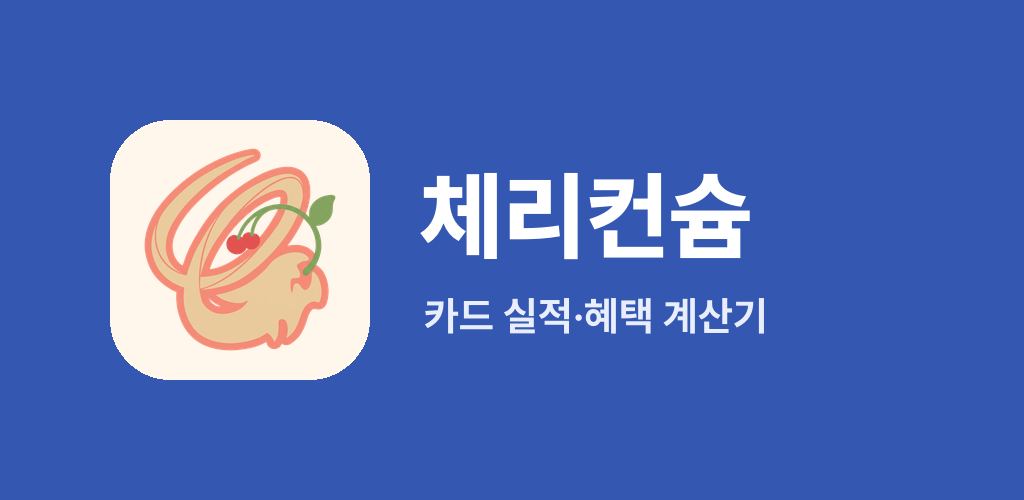
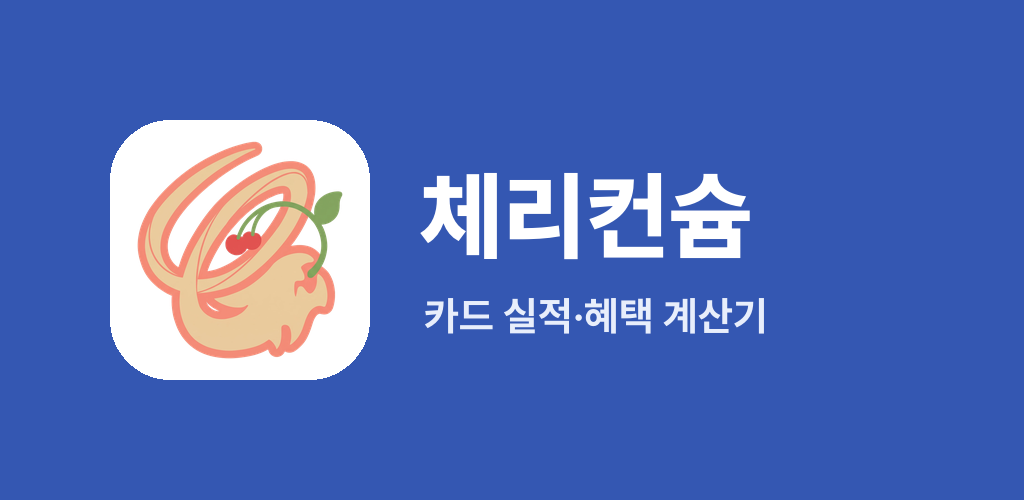
feat: 앱 아이콘 바탕을 흰색으로 바꾸고 그림을 키우기
작업 012 설계 3.2. 2026-10-05 사용자가 실제 폰에서 크림 바탕이 누렇게 보이고 아이콘이 작아 보인다고 했다. 홈 화면 적응형 아이콘의 앞 그림을 108dp 칸의 41%에서 55%로 키웠다. 안전 영역에 드는 최대가 57%다

Changed region(s): [[0.125, 0.27, 0.3438, 0.72]]

diff --git a/backend/tools/store_art.py b/backend/tools/store_art.py
@@ -16,9 +16,8 @@ STORE = ROOT / "docs" / "store"
 RES = ROOT / "app" / "android" / "app" / "src" / "main" / "res"
 SHOTS = ROOT / "app" / "build" / "screens" / "store"
 FONTS = ROOT / "app" / "assets" / "fonts"
-CREAM = (255, 246, 236)  # 아이콘 바탕. 2026-10-05 사용자가 골랐다
 BLUE = (52, 87, 178)  # 앱 C.blue
-WHITE = (255, 255, 255)
+WHITE = (255, 255, 255)  # 아이콘 바탕. 2026-10-05 사용자가 크림이 누렇게 보인다고 흰색으로 바꿨다
 # 찍은 화면, 문구 표의 화면 이름, 내보낼 이름
 SCREENS = [
     ("1-home", "홈", "1-home"),
@@ -56,25 +55,26 @@ def rounded(im: Image.Image, radius: int) -> Image.Image:
 
 def store_icon() -> None:
     # 모서리는 Play가 30%로 깎는다. 원본은 꽉 찬 정사각형이다
-    centered(512, 0.78, CREAM + (255,)).save(STORE / "icon-512.png")
+    centered(512, 0.84, WHITE + (255,)).save(STORE / "icon-512.png")
 
 
 def launcher_icons() -> None:
-    # Android 8 이상은 적응형 아이콘이다. 108dp 칸 가운데 지름 66dp 안전 영역에 들게 그림을 41%로 둔다.
+    # Android 8 이상은 적응형 아이콘이다. 108dp 칸 가운데 지름 66dp 안전 영역에 들게 그림을 55%로 둔다. 그림의 불투명한
+    # 점이 가운데서 긴 변의 0.536배 안에 있어 57%까지 안전 영역에 든다. 2026-10-05 사용자가 41%는 작아 보인다고 했다.
     # 바탕색은 values/colors.xml의 ic_launcher_background다. 그 아래 판은 둥근 사각형 PNG를 쓴다
     for name, dp in [("mdpi", 1), ("hdpi", 1.5), ("xhdpi", 2), ("xxhdpi", 3), ("xxxhdpi", 4)]:
         folder = RES / f"mipmap-{name}"
-        centered(round(108 * dp), 0.41, (0, 0, 0, 0)).save(folder / "ic_launcher_foreground.png")
+        centered(round(108 * dp), 0.55, (0, 0, 0, 0)).save(folder / "ic_launcher_foreground.png")
         size, pad = round(48 * dp), round(2 * dp)
         legacy = Image.new("RGBA", (size, size), (0, 0, 0, 0))
         inner = size - 2 * pad
-        legacy.alpha_composite(rounded(centered(inner, 0.78, CREAM + (255,)), round(inner * 0.2)), (pad, pad))
+        legacy.alpha_composite(rounded(centered(inner, 0.84, WHITE + (255,)), round(inner * 0.2)), (pad, pad))
         legacy.save(folder / "ic_launcher.png")
 
 
 def feature_graphic() -> None:
     im = Image.new("RGB", (1024, 500), BLUE)
-    tile = rounded(centered(260, 0.78, CREAM + (255,)), 60)
+    tile = rounded(centered(260, 0.84, WHITE + (255,)), 60)
     im.paste(tile, (110, 120), tile)
     draw = ImageDraw.Draw(im)
     draw.text((420, 250), "체리컨슘", font=font("ExtraBold", 96), fill=WHITE, anchor="ls")

diff --git a/docs/work/012-android-release/design.md b/docs/work/012-android-release/design.md
@@ -157,8 +157,8 @@ Play에 새로 내는 앱은 APK가 아니라 앱 묶음 파일 `.aab`로 올린
 
 ### 3.2 그림
 
-- 아이콘: `design/icon.png`를 크림색 `#FFF6EC` 바탕의 512×512 정사각형에 둔다. 모서리는 Play가 둥글게 깎으므로 깎지 않는다. 그림은 바탕이 투명인데 Play는 투명 바탕을 권하지 않는다
-- 폰 홈 화면 아이콘: 지금 출시 앱은 Flutter 기본 로고다. 2026-10-05 단계 1에서 찾았다. 같은 그림과 크림색 바탕으로 바꾼다. Android 8 이상은 바탕색과 앞 그림을 나눈 적응형 아이콘이고 그 아래는 둥근 사각형 PNG다. 바탕색은 2026-10-05 사용자가 흰색, 크림, 연분홍, 앱 파란색 가운데 크림을 골랐다
+- 아이콘: `design/icon.png`를 흰색 바탕의 512×512 정사각형에 둔다. 모서리는 Play가 둥글게 깎으므로 깎지 않는다. 그림은 바탕이 투명인데 Play는 투명 바탕을 권하지 않는다
+- 폰 홈 화면 아이콘: 지금 출시 앱은 Flutter 기본 로고다. 2026-10-05 단계 1에서 찾았다. 같은 그림과 크림색 바탕으로 바꾼다. Android 8 이상은 바탕색과 앞 그림을 나눈 적응형 아이콘이고 그 아래는 둥근 사각형 PNG다. 바탕색은 2026-10-05 사용자가 흰색, 크림, 연분홍, 앱 파란색 가운데 크림을 골랐다가, 같은 날 실제 폰에서 크림이 누렇게 보인다고 흰색으로 바꿨다. 앞 그림이 작아 보인다고 해 108dp 칸의 41%에서 55%로 키웠다. 그림의 불투명한 점이 지름 66dp 안전 영역에 드는 최대가 57%다
 - 기능 그래픽: 앱의 파란색 바탕에 아이콘, "체리컨슘", "카드 실적·혜택 계산기"를 둔다. 짧은 설명은 1024×500에 한 줄로 들어가지 않아 앱 이름 뒷부분을 쓴다
 - 스크린샷: 에뮬레이터 화면을 1080×1920으로 바꿔 다시 찍는다. 지금 사진 1080×2400은 긴 변이 짧은 변의 두 배를 넘는다. 홈, 카드 상세, 추천, 가게별 순위, 결제 기록, 기록 6장이다. 결제 내역은 지금처럼 지어낸 것이다
 - 스크린샷 모양: 파란 바탕 위쪽에 한 줄 문구를 두고 그 아래 화면을 넣는다. 문구가 길면 두 줄로 나눈다. 2026-10-05 사용자가 정했다. 문구 초안은 아래와 같다
